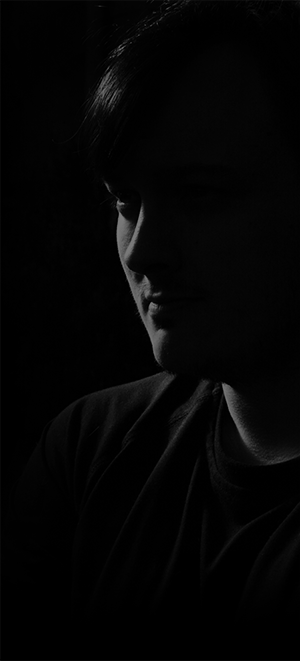
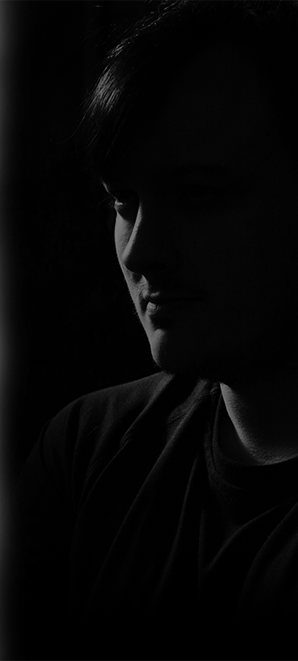
Copy and small bg tweak

diff --git a/index.html b/index.html
@@ -26,7 +26,7 @@
       <div class="large-8 columns">
         <h2>I'm a freelancer and a filmmaker based in Auckland, New Zealand.</h2>
           <div class="small-12 medium-8 large-6 columns paragraph-padding">
-        <p>Specializing predominantly as a director, an editor, and a writer,I have experience across most facets of production. I work on advertorial content for web and television, freelance through agencies, and devote a generous amount of my time to making my own films.</p>
+        <p>Specialising predominantly as a director, an editor, and a writer,I have experience across most facets of production. I work on advertorial content for web and television, freelance through agencies, and devote a generous amount of my time to making my own films.</p>
       </div>
       <div class="small-12 medium-8 large-5 columns paragraph-padding">
         <p>My background in film means I understand the value of telling a good story, and that I excel in creating effective content with limited resources. And my experience commercially has given me confidence in making content with purpose.</p>
